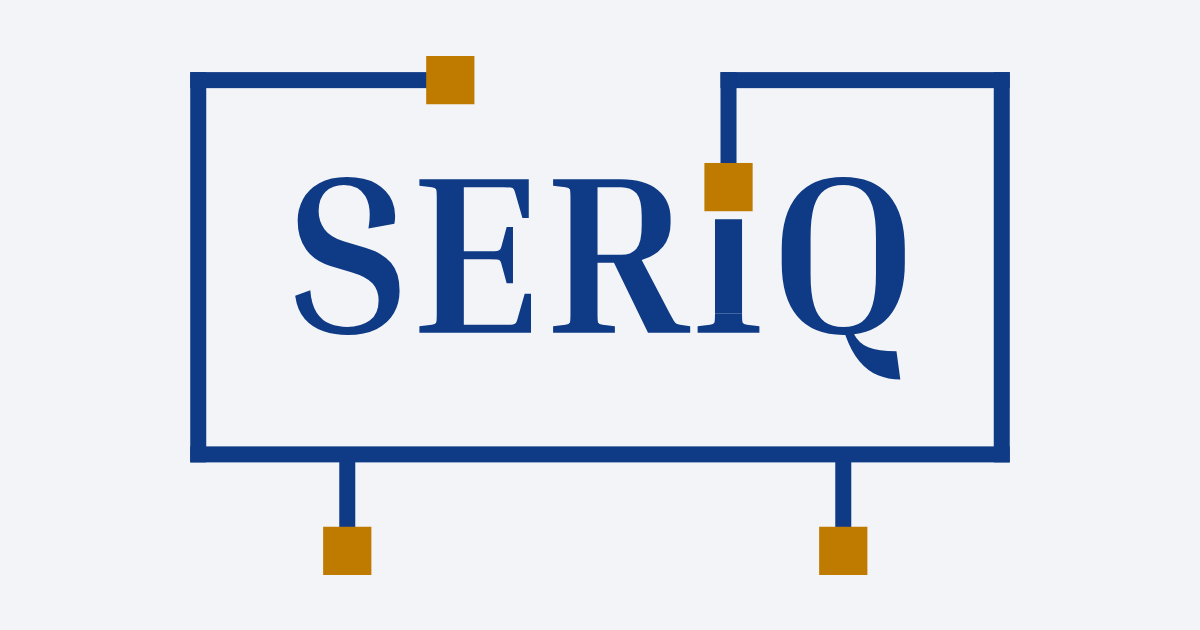
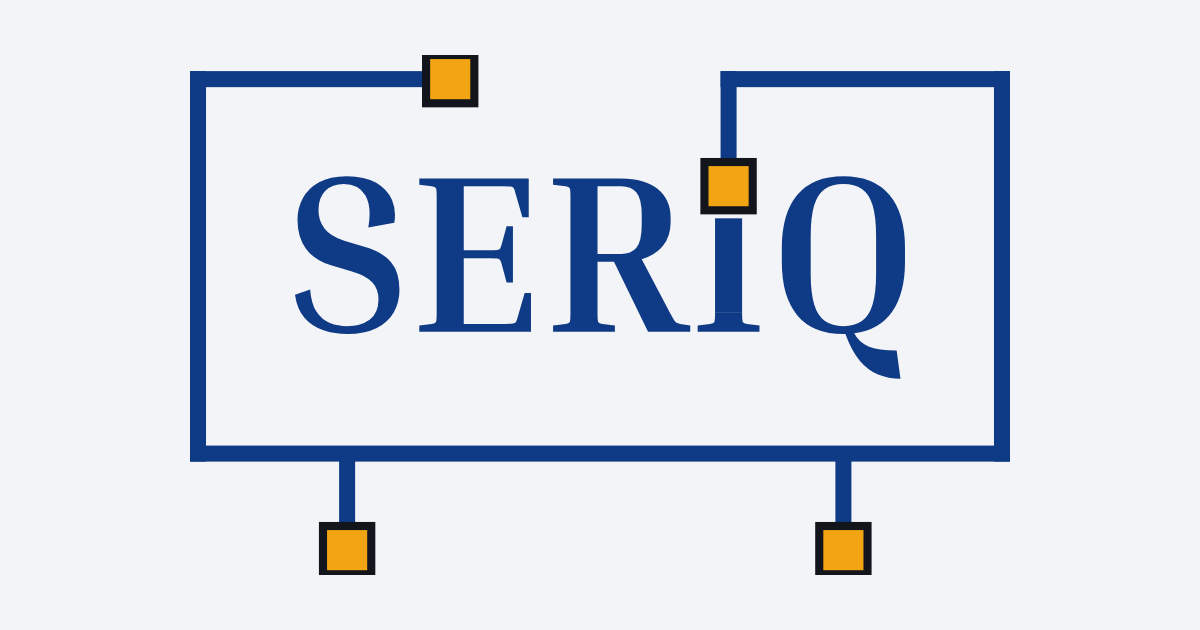
Case every node in a hairline of ink and unify the light amber

diff --git a/_sass/_decorations.scss b/_sass/_decorations.scss
@@ -76,12 +76,12 @@
    follow. */
 .logo__word, .logo__run { fill: var(--wire); }
 .logo__node { fill: var(--node); }
-
-/* The section mark: a stub of run standing in for a heading rule. */
-section.band h2::before {
-  content: ""; display: block; width: 18px; height: var(--run);
-  background: var(--mark); margin-bottom: .55rem;
-}
+/* The casing, on every node on the site. In user units, not a non-scaling
+   stroke: the casing is a sixth of the node it encloses, and it should stay
+   that fraction wherever the drawing is shown — including the raster copies,
+   which are this same figure at 15x. 36 units is 1px at the 4rem header size,
+   where the node itself is 6px. */
+.logo__node rect { stroke: var(--node-line); stroke-width: 36; }
 
 /* The home title's wire network. Markup in _includes/wire-network.html.
 
@@ -129,6 +129,10 @@ section.band h2::before {
    the pulses inherit their own stroke and dash from the clone. */
 .wire-net > .wire-net__run { stroke: var(--wire); stroke-width: 2; }
 .wire-net > .wire-net__node { fill: var(--node); }
+/* 1 unit against a 6-unit node: the same sixth, and 1px at the width the
+   network is drawn for. Scaled down on narrow screens the casing thins with
+   the node rather than swallowing it. */
+.wire-net > .wire-net__node rect { stroke: var(--node-line); stroke-width: 1; }
 
 /* Drawing in. Everything grows out of the hub: the node lands first, the stem
    pushes up to the bus, and from there the frame and the two secondary buses
@@ -200,6 +204,8 @@ section.band h2::before {
    node centred on it. The frame is inset so nothing clips. */
 .event {
   --arm: 20px; --box: var(--node-size); --inset: 4px;
+  /* The cased node, centred on the same point as the node it encloses. */
+  --boxc: calc(var(--box) + 2px);
   background-repeat: no-repeat;
   background-image:
     linear-gradient(var(--amber), var(--amber)),
@@ -217,7 +223,15 @@ section.band h2::before {
     linear-gradient(var(--amber), var(--amber)),
     linear-gradient(var(--amber), var(--amber)),
     linear-gradient(var(--amber), var(--amber)),
-    linear-gradient(var(--amber), var(--amber));
+    linear-gradient(var(--amber), var(--amber)),
+    linear-gradient(var(--node-line), var(--node-line)),
+    linear-gradient(var(--node-line), var(--node-line)),
+    linear-gradient(var(--node-line), var(--node-line)),
+    linear-gradient(var(--node-line), var(--node-line)),
+    linear-gradient(var(--node-line), var(--node-line)),
+    linear-gradient(var(--node-line), var(--node-line)),
+    linear-gradient(var(--node-line), var(--node-line)),
+    linear-gradient(var(--node-line), var(--node-line));
   background-size:
     var(--arm) var(--run),
     var(--run) var(--arm),
@@ -234,7 +248,15 @@ section.band h2::before {
     var(--box) var(--box),
     var(--box) var(--box),
     var(--box) var(--box),
-    var(--box) var(--box);
+    var(--box) var(--box),
+    var(--boxc) var(--boxc),
+    var(--boxc) var(--boxc),
+    var(--boxc) var(--boxc),
+    var(--boxc) var(--boxc),
+    var(--boxc) var(--boxc),
+    var(--boxc) var(--boxc),
+    var(--boxc) var(--boxc),
+    var(--boxc) var(--boxc);
   background-position:
     left var(--inset) top var(--inset),
     left var(--inset) top var(--inset),
@@ -251,7 +273,15 @@ section.band h2::before {
     left calc(var(--inset) + var(--arm) - var(--box) / 2) bottom calc(var(--inset) + 1px - var(--box) / 2),
     left calc(var(--inset) + 1px - var(--box) / 2) bottom calc(var(--inset) + var(--arm) - var(--box) / 2),
     right calc(var(--inset) + var(--arm) - var(--box) / 2) bottom calc(var(--inset) + 1px - var(--box) / 2),
-    right calc(var(--inset) + 1px - var(--box) / 2) bottom calc(var(--inset) + var(--arm) - var(--box) / 2);
+    right calc(var(--inset) + 1px - var(--box) / 2) bottom calc(var(--inset) + var(--arm) - var(--box) / 2),
+    left calc(var(--inset) + var(--arm) - var(--boxc) / 2) top calc(var(--inset) + 1px - var(--boxc) / 2),
+    left calc(var(--inset) + 1px - var(--boxc) / 2) top calc(var(--inset) + var(--arm) - var(--boxc) / 2),
+    right calc(var(--inset) + var(--arm) - var(--boxc) / 2) top calc(var(--inset) + 1px - var(--boxc) / 2),
+    right calc(var(--inset) + 1px - var(--boxc) / 2) top calc(var(--inset) + var(--arm) - var(--boxc) / 2),
+    left calc(var(--inset) + var(--arm) - var(--boxc) / 2) bottom calc(var(--inset) + 1px - var(--boxc) / 2),
+    left calc(var(--inset) + 1px - var(--boxc) / 2) bottom calc(var(--inset) + var(--arm) - var(--boxc) / 2),
+    right calc(var(--inset) + var(--arm) - var(--boxc) / 2) bottom calc(var(--inset) + 1px - var(--boxc) / 2),
+    right calc(var(--inset) + 1px - var(--boxc) / 2) bottom calc(var(--inset) + var(--arm) - var(--boxc) / 2);
 }
 
 /* One run down the axes gutter, with a node on each row and a signal riding
@@ -298,6 +328,7 @@ section.band h2::before {
     /* Opaque, so the run stops behind it rather than showing through and
        striping it — the run is the muted one here, the node is the mark. */
     background: var(--node);
+    box-shadow: 0 0 0 1px var(--node-line);
   }
 
   /* The signal, the same one the home network carries and on the same clock: a
@@ -365,6 +396,7 @@ section.band h2::before {
     top:  calc(var(--node-y) - var(--node-size) / 2);
     width: var(--node-size); height: var(--node-size);
     background: var(--node);
+    box-shadow: 0 0 0 1px var(--node-line);
   }
   .cross-axes::after {
     top: calc(var(--node-y) - var(--pulse-h) / 2); height: var(--pulse-h);
@@ -386,6 +418,7 @@ section.band h2::before {
 .event-list .name::before {
   content: ""; display: inline-block; width: 6px; height: 6px;
   margin-right: .6rem; vertical-align: .16em; background: var(--node);
+  box-shadow: 0 0 0 1px var(--node-line);
 }
 
 /* A node terminating each onward link, the same 6px box that ends every
@@ -395,4 +428,5 @@ section.band h2::before {
   content: ""; flex: none;
   width: var(--node-size); height: var(--node-size);
   background: var(--node); transform: translateY(.05em);
+  box-shadow: 0 0 0 1px var(--node-line);
 }

diff --git a/_sass/_tokens.scss b/_sass/_tokens.scss
@@ -13,15 +13,19 @@
   --blue-soft: #e3e9f5;
   --blue-deep: #0a2558;
   --amber:     #f2a413;
-  /* Amber only carries on the blue grounds. On paper the ornament and
-     the nodes take the deeper cut, which clears 3:1 against the ground. */
-  --mark:      #bf7a00;
+  /* One amber, both grounds. A node clears the paper on the 1px --node-line
+     cased around it rather than on its own fill contrast, so the bright stop
+     carries here as well as on the blue. */
   --amber-ink: #8a5200;
   --amber-soft:#fdf0d6;
 
   --wire: var(--blue);
   --pulse: #3775dc;  /* a signal on the wire: lighter than --wire, both themes */
-  --node: var(--mark);
+  --node: var(--amber);
+  /* Every node is cased in a hairline of ink, which is what separates it from
+     its ground. It follows the ink, so it is near-black on paper and near-white
+     on the dark theme's. */
+  --node-line: var(--ink);
   --accent: var(--blue);
   --accent-soft: var(--blue-soft);
 
@@ -93,7 +97,6 @@
     --blue-deep: #0b1c3d;
     --pulse:     #bcd3ff;
     --amber:     #f5b73f;
-    --mark:      #f5b73f;
     --amber-ink: #f0b352;
     --amber-soft:#23190c;
 

diff --git a/scripts/make_braid.py b/scripts/make_braid.py
@@ -22,7 +22,7 @@ STROKE, CASING = 1.6, 5.0
 STEP = 1.0  # sampling interval along x; the cosine is drawn as a polyline
 
 # Wire blue and node amber, the site's two ornament colours (--wire, --node).
-STRANDS_LIGHT = ["#0f3a86", "#bf7a00"]
+STRANDS_LIGHT = ["#0f3a86", "#f2a413"]
 STRANDS_DARK = ["#7ea6ff", "#f5b73f"]
 
 
